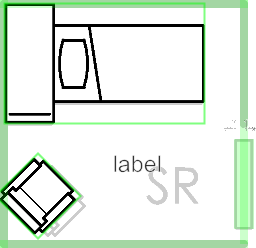
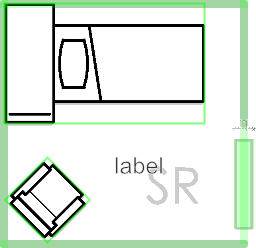
fix: thumbnail drawing bug i.e. transform images around top-left

Changed region(s): [[0.0, 0.5927, 0.375, 0.9879], [0.4375, 0.621, 0.6562, 0.7056], [0.875, 0.4798, 0.9688, 0.5363]]

diff --git a/packages/ui/map-edit/src/MapEditSvg.tsx b/packages/ui/map-edit/src/MapEditSvg.tsx
@@ -3,7 +3,14 @@ import { cn, type UseStateRef } from "@npc-cli/util";
 import { warn } from "@npc-cli/util/legacy/generic";
 import { memo, useMemo } from "react";
 import type { ResizeHandle, State } from "./MapEdit";
-import { baseSvgSize, findNode, getNodeBounds, type ImageMapNode, type MapNode, type RectMapNode } from "./map-node-api";
+import {
+  baseSvgSize,
+  findNode,
+  getNodeBounds,
+  type ImageMapNode,
+  type MapNode,
+  type RectMapNode,
+} from "./map-node-api";
 
 export function MapEditSvg({ root, uiId }: { root: UseStateRef<State>; uiId: string }) {
   const vbW = baseSvgSize / root.zoom;
@@ -78,6 +85,7 @@ export const RenderMapNodes = ({ nodes, root }: { nodes: MapNode[]; root: UseSta
             preserveAspectRatio="none"
             className={cn(
               "outline-1 outline-white/0",
+              "origin-top-left",
               root.selectedIds.has(node.id) === true && "outline-blue-500 outline-solid",
               node.locked === true && "pointer-events-none opacity-25",
             )}

diff --git a/scripts/src/service/process-symbol.ts b/scripts/src/service/process-symbol.ts
@@ -71,16 +71,18 @@ async function createSavedFilePreviewPng(savedFile: MapEditSavedFile) {
   await traverseNodesAsync(nodes, async (node) => {
     if (!isNodeTransformable(node)) return;
 
+    // transform about top-left
+    const [a, b, c, d, tx, ty] = new Mat(node.cssTransform).toArray();
     ct.setTransform(scale, 0, 0, scale, 0, 0);
-    ct.transform(...new Mat(node.cssTransform).toArray());
-    ct.translate(-bounds.x, -bounds.y);
+    ct.translate(tx - bounds.x, ty - bounds.y);
+    ct.transform(a, b, c, d, 0, 0);
 
     switch (node.type) {
       case "image":
       case "symbol": {
         if (isHullSymbol) break; // avoid large hull thumbnails
-
         const image = await loadImage(getImageOrSymbolNodeImageUrl(node, isMap));
+
         if (node.type === "image") ct.globalAlpha = node.locked ? 0.2 : 1;
         ct.drawImage(image, 0, 0, node.baseRect.width, node.baseRect.height);
         ct.globalAlpha = 1;

diff --git a/TODO.md b/TODO.md
@@ -49,6 +49,8 @@
 
 - 🚧 extend existing symbols with missing
   - ✅ stateroom-012 🚧 ...
+  - ✅ BUG thumbnail wrong for transformed decor: origin?
+    - packages/app/public/symbol/stateroom--012--2x2.thumbnail.png
   - decor 
   - obstacles
 - can see floors in World
